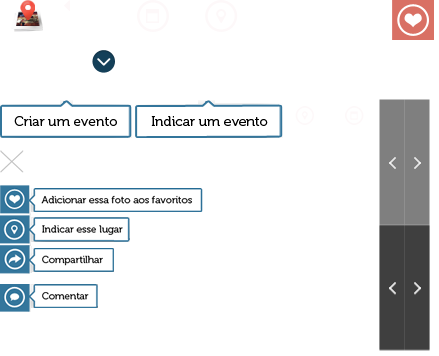
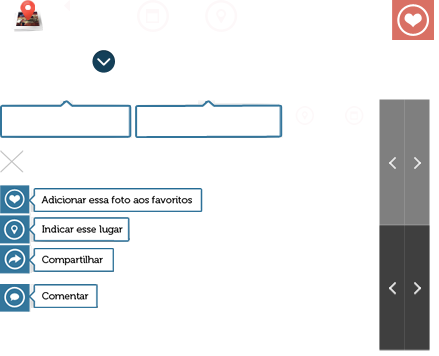
Atualização da top bar

Changed region(s): [[0.3257, 0.309, 0.6219, 0.3708], [0.0296, 0.309, 0.2665, 0.3708]]

diff --git a/web/bundles/site/css/style.css b/web/bundles/site/css/style.css
@@ -27,7 +27,7 @@ body { height:100%; background:#FFF; overflow:hidden; font-family: 'Museo500-Reg
 .aonde .ico-onde { width:50px; height:50px; float:left; background:url('../images/icons.png') 0px 9px no-repeat; }
 .aonde .topo-input { float:left; background:#31749B; padding:0 8px 8px 0; padding-bottom:0; }
 .aonde .topo-input .ico-input { width:6px; height:50px; background:url('../images/icons.png') -64px 20px no-repeat; float:left; }
-.aonde .topo-input .inp-postar { width:340px; height:30px; margin-top:10px; padding:0 5px; border:0; line-height:30px; background:#FFF; color:#AAA; float:left; resize: none; }
+.aonde .topo-input .inp-postar { width:250px; max-width:250px; height:30px; margin-top:10px; padding:0 5px; border:0; line-height:30px; background:#FFF; color:#AAA; float:left; resize: none; }
 .aonde .post { margin:10px 0 0 -3px; }
 input, textarea { font-family: 'Museo500-Regular'; font-size: 13px; }
 
@@ -49,6 +49,7 @@ input, textarea { font-family: 'Museo500-Regular'; font-size: 13px; }
 .add-event .hint { width:132px; height:53px; background:url('../images/icons.png') 0px -85px no-repeat; position:absolute; top:30px; left:-33px; display:none; }
 .ind-location { background:url('../images/icons.png') -190px 0px no-repeat; }
 .ind-location .hint { width:148px; height:53px; background:url('../images/icons.png') -135px -85px no-repeat; position:absolute; top:30px; left:-40px; display:none; }
+.add-event .hint , .ind-location .hint { padding-top:13px; text-align:center; color:#000; }
 
 .region { float:right; margin-right:15px; }
 .region span { color:#FFF; }
@@ -138,6 +139,7 @@ ul.pho-menu li span.fav { background-position:-341px -103px; }
 .pg-next { background-position:-405px -100px; right:10px; }
 .pg-next:hover { background-position:-405px -225px; }
 
+
 .bottom-bar { width:100%; height:55px; margin:0; background:#31749B;  position:fixed; bottom:0; left:0; z-index:2; }
 .bottom-bar .logo { width:150px; height:55px; display:block; float:left; background:url('../images/logo.png') no-repeat center #296689; }
 .bottom-bar .bottom-ico { width:65px; height:32px; float:left; margin-top:12px; border-right:3px solid #296689; position:relative; cursor:pointer; }
@@ -146,16 +148,17 @@ ul.pho-menu li span.fav { background-position:-341px -103px; }
 .bottom-bar ul { float:left; }
 .bottom-bar ul li { float:left; }
 .bottom-bar ul li a { padding:0 20px; height:55px; line-height:55px; display:block; color:#FFF; position:relative; }
-.bottom-bar ul li a:hover { background:#296689; }
+.bottom-bar ul li a:hover, .bottom-bar ul li a.menuAtivo { background:#296689; }
 
 .bottom-bar ul li a span { width:3px; height:32px; display:block; background:#31749B; position:absolute; top:12px; }
 .bottom-bar ul li a span.bl { left:0; }
 .bottom-bar ul li a span.br { right:0; background:#296689; }
-.bottom-bar ul li a:hover span { background:#FF5885; }
+.bottom-bar ul li a:hover span, .bottom-bar ul li a span.menuAtivo { background:#FF5885; }
 
 .bottom-bar .info { float:right; padding:0 20px; height:55px; display:block; color:#FFF; position:relative; background:#296689; }
 .bottom-bar .info .name { display:block; padding-top:15px; font-size:13px; }
 .bottom-bar .info .fav-fri { display:block; font-size:11px; font-weight:normal; }
+
 
 /*SOBRE*/
 .sobre { width:100%; height:100%; background-color:#F4F4F4; color:#999; font-family: 'Museo300-Regular'; }

diff --git a/web/bundles/site/js/functions.js b/web/bundles/site/js/functions.js
@@ -170,20 +170,6 @@ $a(document).ready(function(){
 	
 	//TOP - BAR
 	var	shadownBox = ".shadownBox";
-	$a(".inp-postar").focus(function(){
-		if($a(this).val()==="aonde você vai hoje?"){
-			$a(this).val("");
-		}
-		$a(this).animate({height : 60}, 'fast');
-		$a(".topo-input").animate({paddingBottom : 8}, 'fast');
-	});
-	$a(".inp-postar").blur(function(){
-		if($a(this).val()===""){
-			$a(this).val("aonde você vai hoje?");
-		}
-		$a(this).animate({height : 30}, 'fast');
-		$a(".topo-input").animate({paddingBottom : 0}, 'fast');
-	});
 	$a(".best").hover(function(){
 		$a(this).find("ul").slideToggle('fast');
 	});
